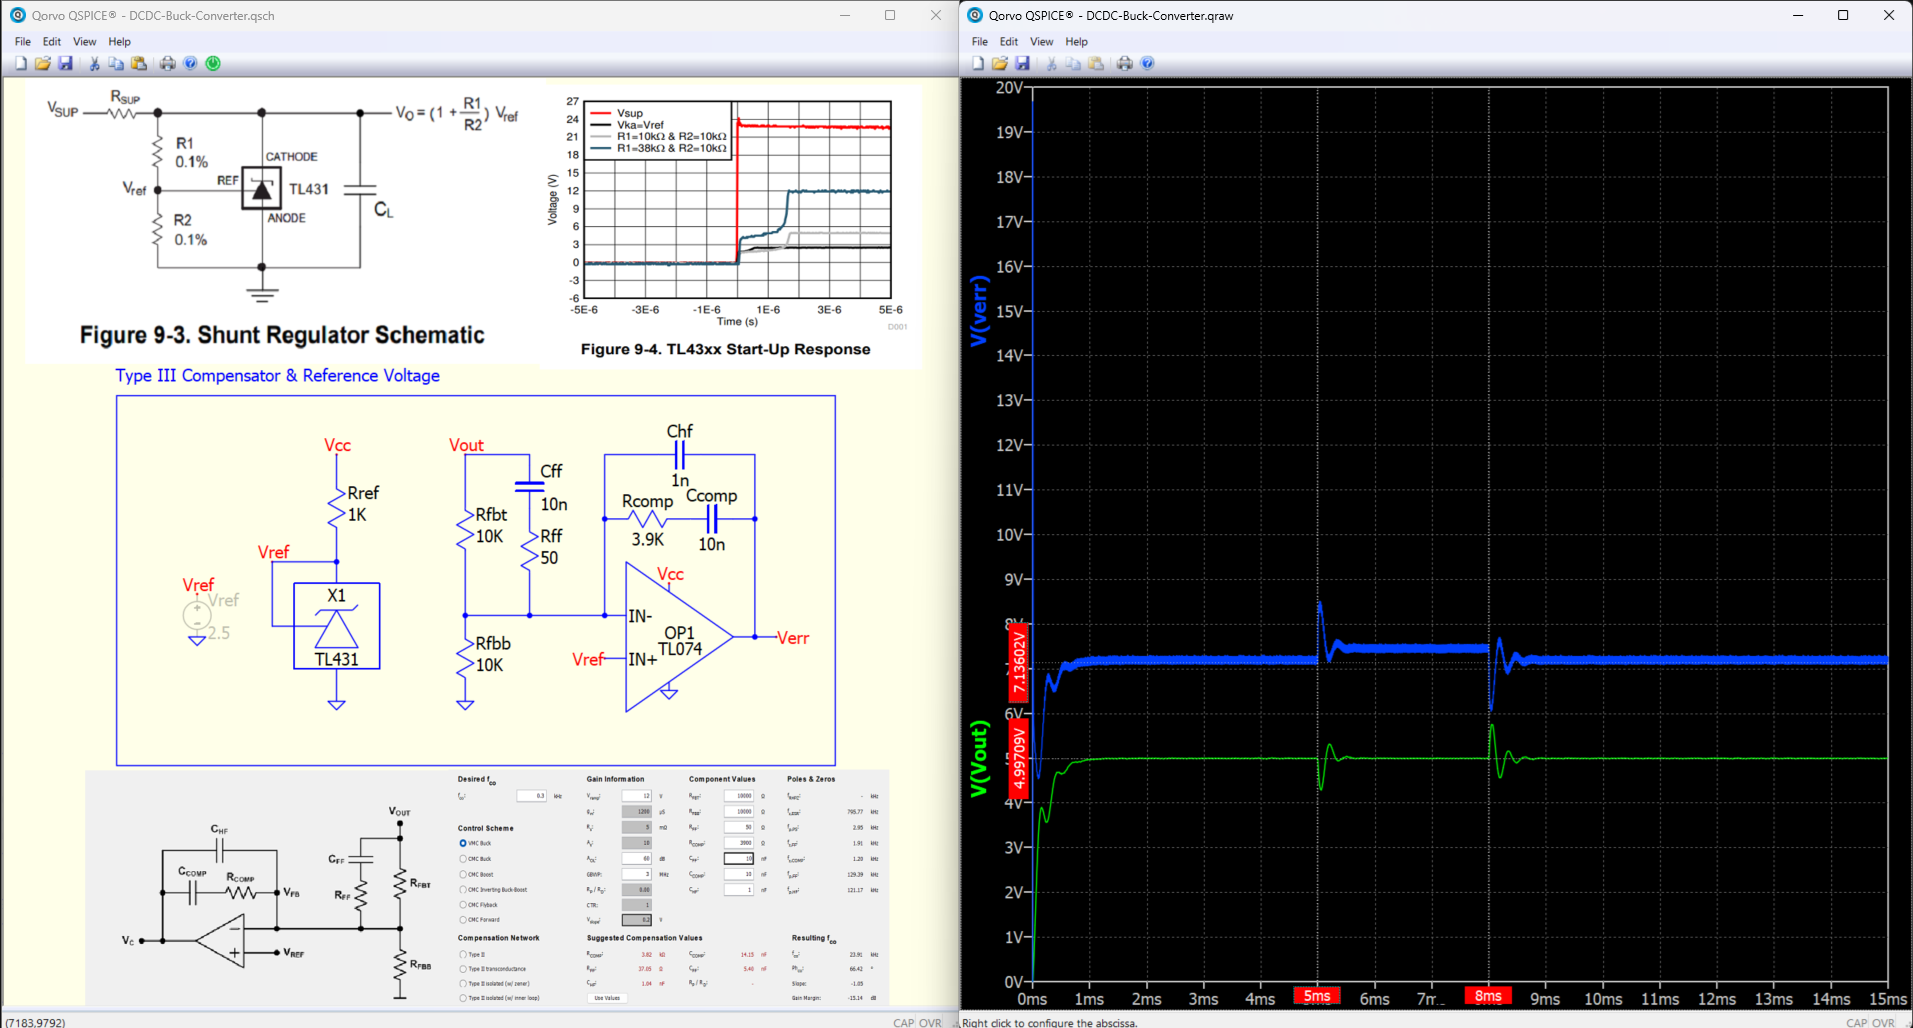
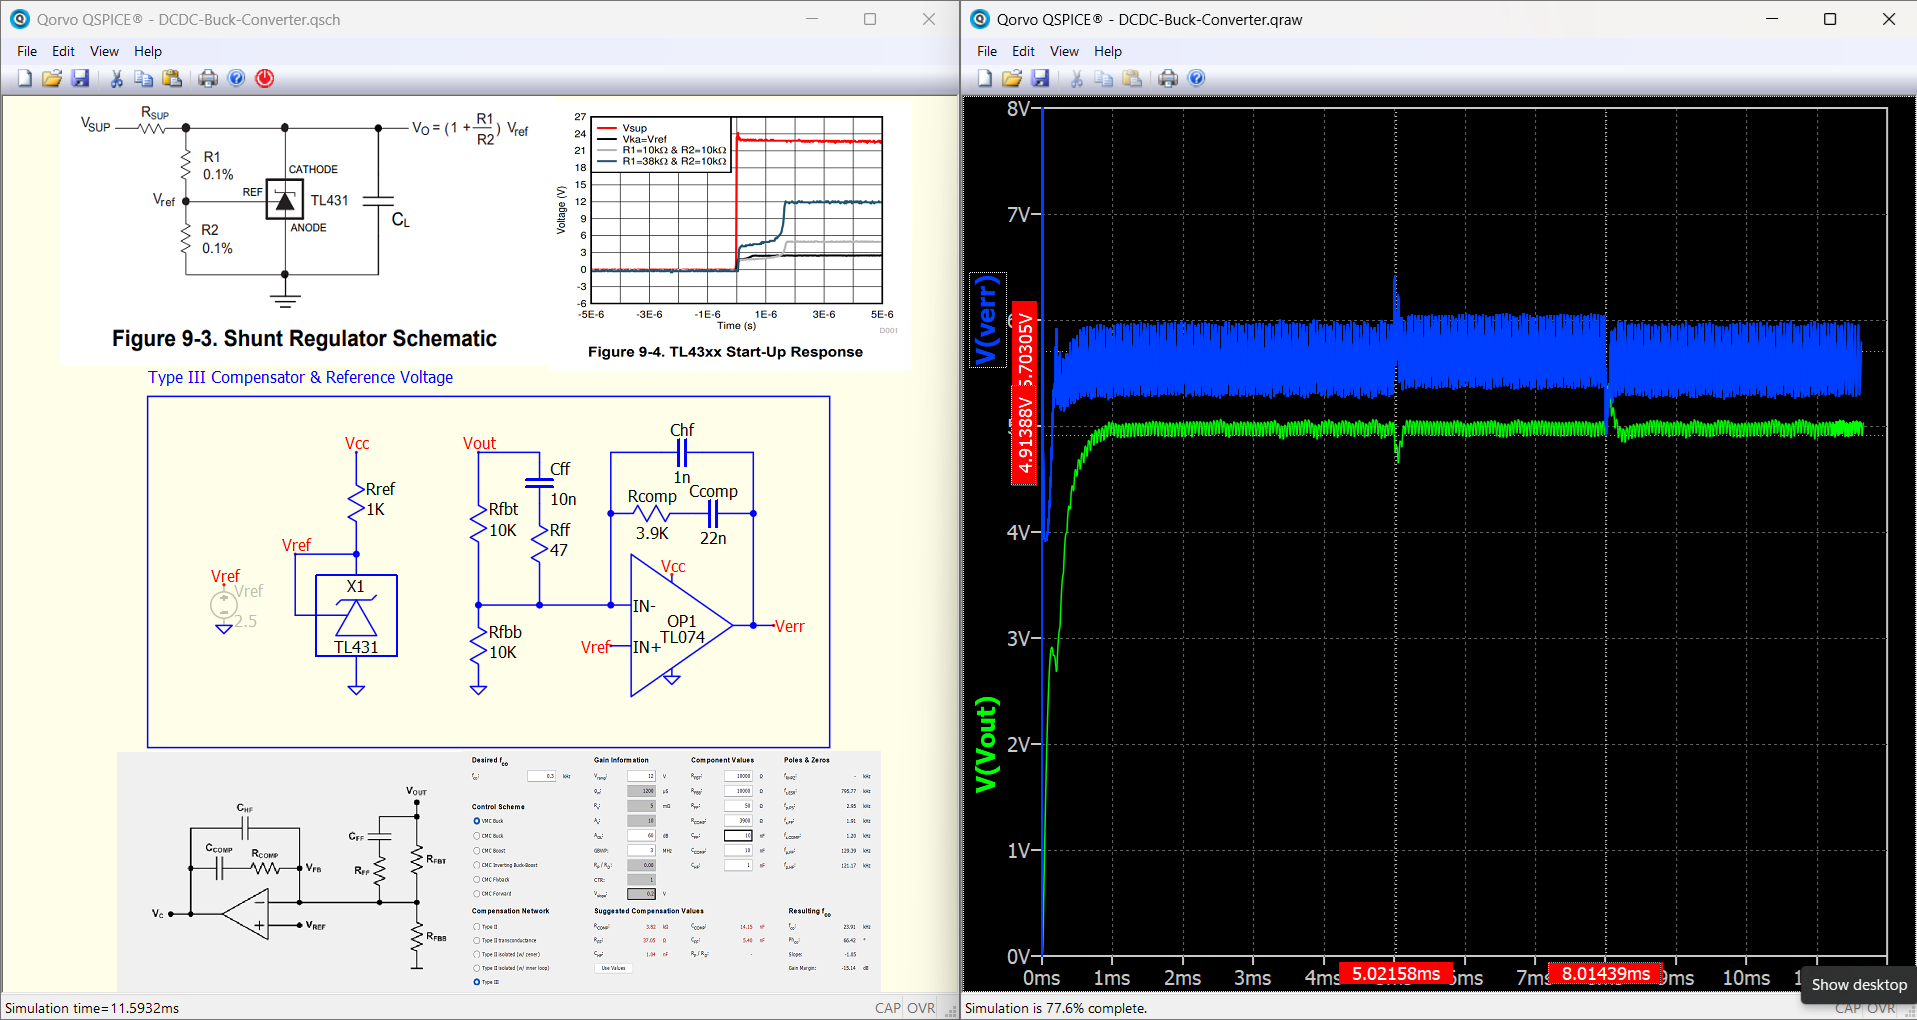
Updating validation circuit.

Changed region(s): [[0.0, 0.0, 1.0, 1.0], [0.0925, 0.4255, 0.2159, 0.699], [0.9561, 0.0, 1.0, 0.0304]]

diff --git a/README.md b/README.md
@@ -1,18 +1,12 @@
 # DCDC-Buck-Converter
 
-Qspice simulation of a DC-DC Buck Converter (36V to 5V @ 5A max) using analog eletronics.
+Qspice simulation of a DC-DC Buck Converter (32V to 5V @ 5A max) using analog eletronics.
 
 ## Triangle Wave Oscilattor
 
-Frequency in 60kHz. Capacitor C1 and R5 sets the frequency. Last stage is only for amplificate. 
+Frequency in 20kHz. Capacitor C1 and R5 sets the frequency. Last stage is only for amplificate. 
 
 ![results-Vtri](img/results-Vtri.png)
-
-## PWM Comparator Signal and Buck Plant
-
-From Power Stage Designer (Texas Instruments), using TL074 as comparator with 36Vcc voltage suppy.
-
-![results-Vpwm](img/results-Vpwm.png)
 
 ## Compensator Type III
 
@@ -22,8 +16,10 @@ From Power Stage Designer (Texas Instruments), using TL074 as compensator and TL
 
 ## Complete Circuit
 
-Overshoot of 0.77V (15.4% of 5V), undershoot of 0.71V (11.8% of 5V), and 1ms for stabilization of step load response (2.5A@0ms->5A@5ms->2.5A@8ms). 36V source is a PULSE source that starts in 1us. The circuit takes 1ms to get 5V converted on Vout.
+Undershoot of 4.65V (0.35V - 7% of 5V), overshoot of 5.4V (0.4V - 8% of 5V), and 0.2ms for stabilization of step load response (2.5A@0ms->5A@5ms->2.5A@8ms).
 
 ![results](img/results.png)
+
+32V source is a PULSE source that starts in 1us. The circuit takes 1ms to get 5V converted on Vout.
 
 ![results-1](img/results-1.png)
